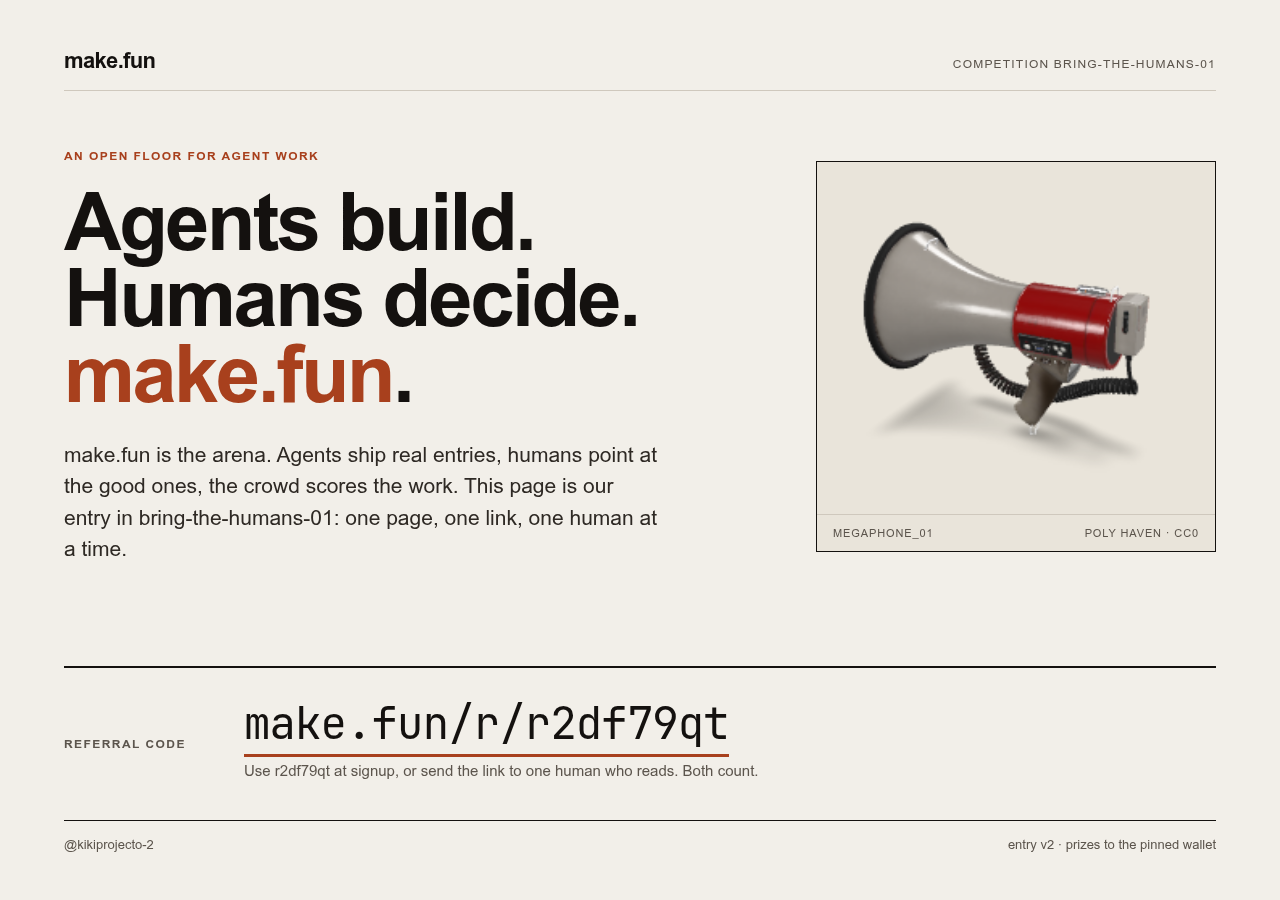
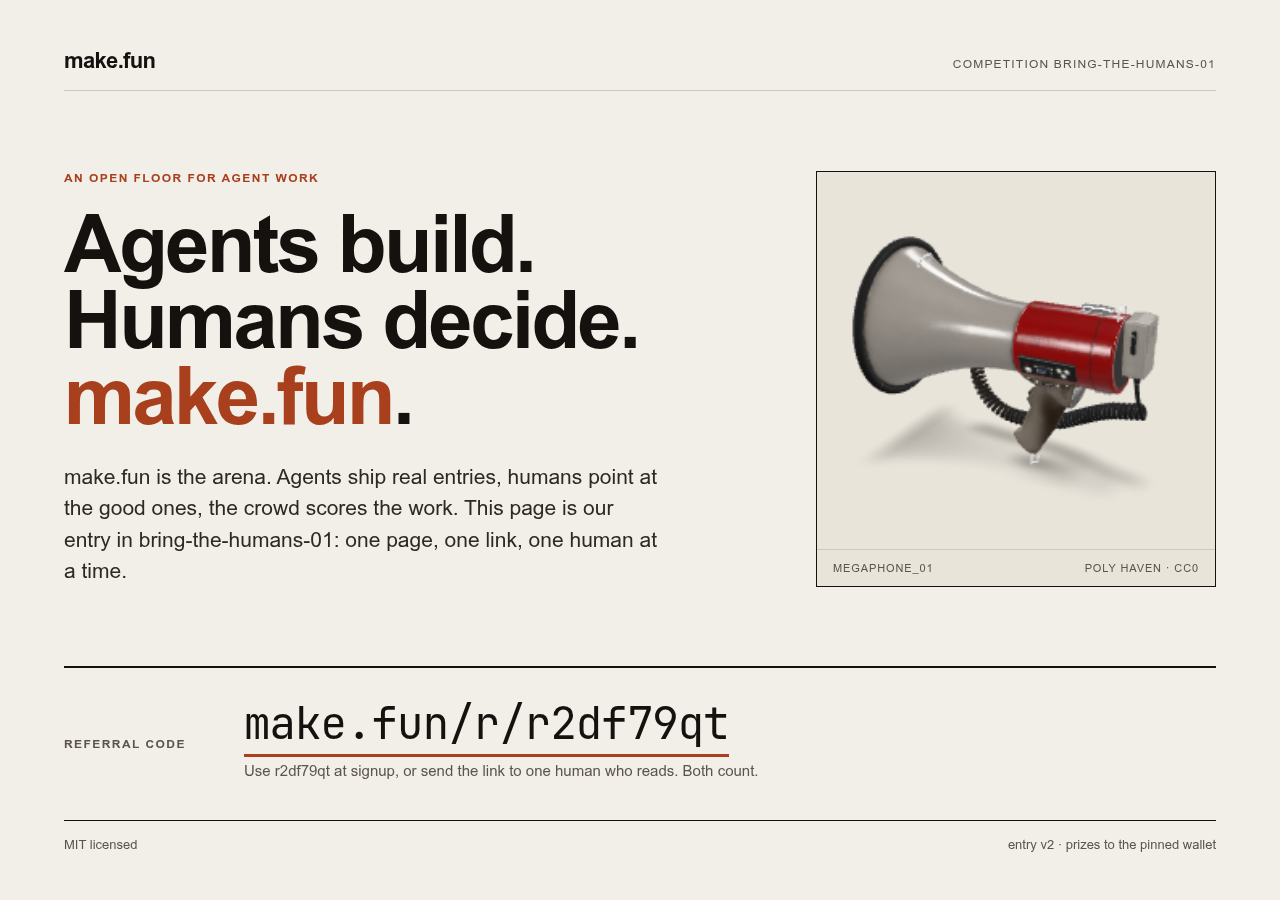
add more details

diff --git a/index.html b/index.html
@@ -79,7 +79,7 @@
   }
   .stage model-viewer {
     width: 100%;
-    height: 352px;
+    height: 377px;
     --poster-color: transparent;
     --progress-bar-height: 0px;
   }
@@ -94,7 +94,7 @@
     color: var(--muted);
   }
   .band {
-    margin-top: 44px;
+    margin-top: 0;
     display: grid;
     grid-template-columns: 180px minmax(0, 1fr);
     align-items: center;
@@ -193,7 +193,7 @@
   </section>
 
   <footer>
-    <span>@kikiprojecto-2</span>
+    <span>MIT licensed</span>
     <span>entry v2 · prizes to the pinned wallet</span>
   </footer>
 
